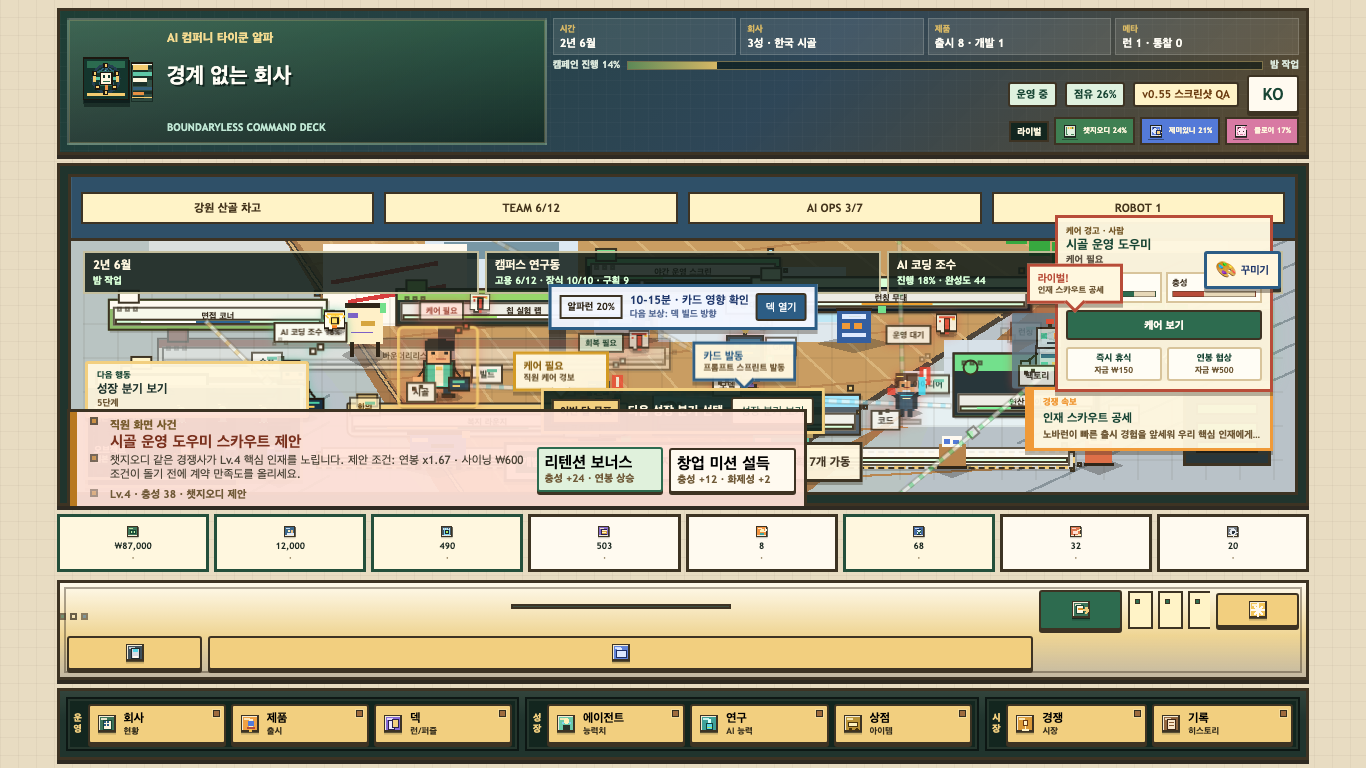
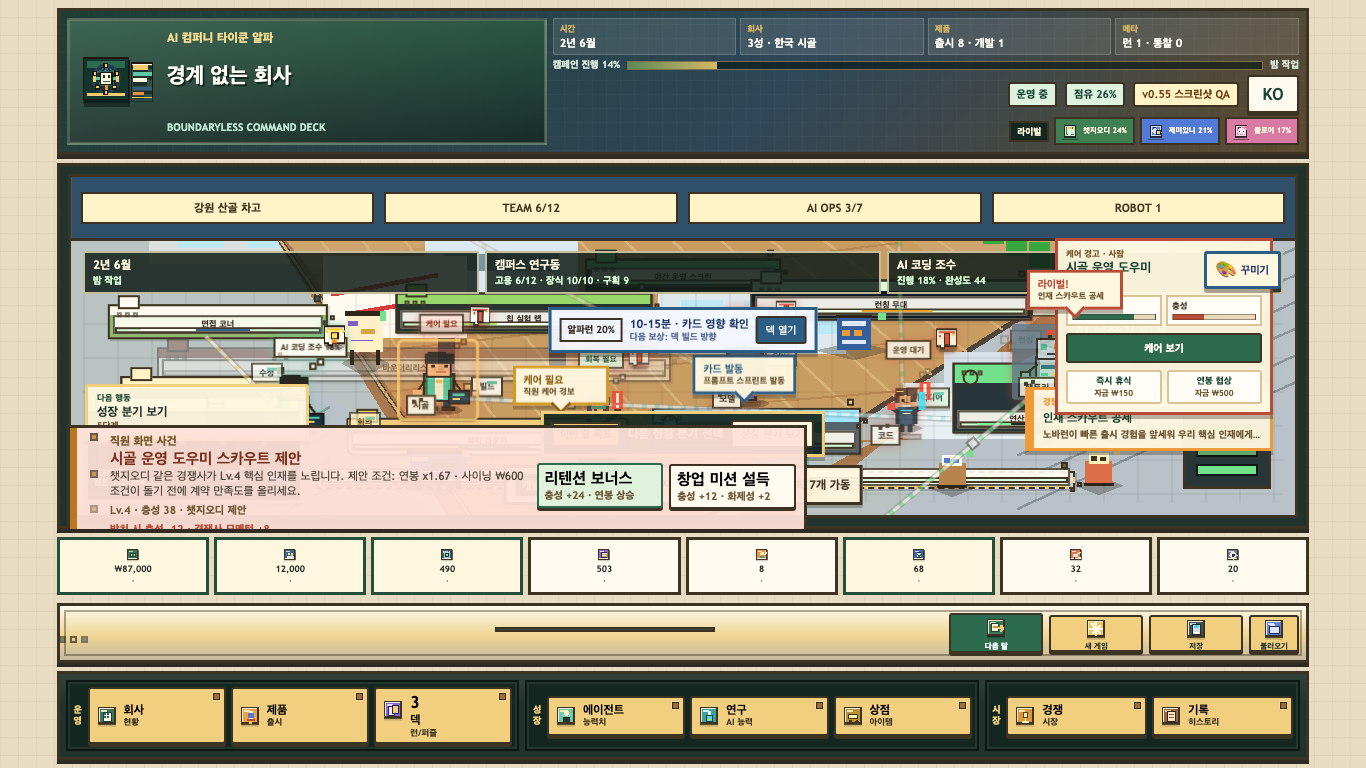
Take the strategy hand out of the command row and label the controls
Constraint: Players could not tell what the command-console buttons were because the strategy-card hand crowded the row, and the save/load/new-game labels were hidden by a v0.93 secondary-action rule.

Rejected: Cramming labels in beside the hand | the hand is a read-only preview, so it moves to the deck popup with a 손패 count badge on the deck launcher, freeing the row to label all four controls.

Confidence: high

Scope-risk: narrow

Directive: The command row shows 다음 달 / 새 게임 / 저장 / 불러오기 labeled on desktop; the hand lives in the deck popup with a hand-count badge. Codex hung at startup, so Claude implemented and verified this directly.

Tested: live measure (all 4 command labels visible, command-row overflow 0, deck launcher 손패 badge "3"); check-v096-first-screen (desktop overflow 0, officeVisibleFraction 0.376 -> 0.403); check-v1_0-menu-popup (8/8, 0 errors); npm run harness:gate < /dev/null (53 files / 652 tests, build clean). Additive: simulation.ts/types.ts/data diff empty.

Not-tested: Physical-device legibility of the small command labels.

diff --git a/src/App.css b/src/App.css
@@ -179,6 +179,13 @@ button:disabled {
   white-space: nowrap;
 }
 
+/* 데스크톱(>1100px)에서는 손패가 빠져 자리가 나므로 보조 버튼(새 게임·저장·불러오기) 라벨도 켠다. */
+@media (min-width: 1101px) {
+  .app-shell.v034-game-shell.first-screen-composition .command-row .secondary-action span {
+    display: block;
+  }
+}
+
 .app-shell.v034-game-shell.first-screen-composition .event-stack.office-sightline-event-rail .event-choices strong,
 .app-shell.v034-game-shell.first-screen-composition .event-stack.office-sightline-event-rail .event-choice-summary {
   white-space: normal;

diff --git a/src/ui/layout-contract.test.ts b/src/ui/layout-contract.test.ts
@@ -1836,6 +1836,13 @@ describe("v0.13.3 compact game shell layout", () => {
     expect(gameChrome).not.toContain("<OperationCommandPanel");
   });
 
+  it("v1.0 block5 takes the strategy hand out of the command row and labels the controls", () => {
+    const commandRowBody = gameChrome.slice(gameChrome.indexOf("function CommandRow"), gameChrome.indexOf("function StrategyHand"));
+    expect(commandRowBody).not.toContain("<StrategyHand");
+    expect(gameChrome).toContain("hand-count-badge");
+    expect(appCss).toMatch(/@media\s*\(min-width:\s*1101px\)[\s\S]*?\.command-row\s+\.secondary-action span\s*{[^}]*display:\s*block/s);
+  });
+
   it("v0.58 #4 differentiates rival-counter strategy cards with a derive-only pressure badge in deck and reward UI", () => {
     expect(menuPanels).toContain("isCounterCard");
     expect(menuPanels).toContain("getRivalCounterSignal");

diff --git a/src/App.tsx b/src/App.tsx
@@ -163,7 +163,11 @@ function App() {
         />
       </div>
       <CommandRow gameState={gameState} setGameState={setGameState} onSave={handleSave} onLoad={handleLoad} />
-      <MenuLauncherBar activeMenu={isMenuPopupOpen ? activeMenu : null} onOpen={openMenu} />
+      <MenuLauncherBar
+        activeMenu={isMenuPopupOpen ? activeMenu : null}
+        handCount={gameState.roguelite.deck.hand.length}
+        onOpen={openMenu}
+      />
       {isMenuPopupOpen && (
         <MenuPopupModal
           activeMenu={activeMenu}

diff --git a/src/components/GameChrome.tsx b/src/components/GameChrome.tsx
@@ -2959,7 +2959,6 @@ export function CommandRow({
         <CommercialUiIcon className="command-icon" iconId="next" />
         <span>다음 달</span>
       </button>
-      <StrategyHand gameState={gameState} />
       <button aria-label="새 게임" className="secondary-action command-action" onClick={() => setGameState(createInitialState())}>
         <CommercialUiIcon className="command-icon" iconId="newGame" />
         <span>새 게임</span>
@@ -3074,9 +3073,11 @@ export function MainMenu({
 export function MenuLauncherBar({
   activeMenu,
   onOpen,
+  handCount = 0,
 }: {
   activeMenu: MenuId | null;
   onOpen: Dispatch<SetStateAction<MenuId>>;
+  handCount?: number;
 }) {
   return (
     <nav className="menu-launcher-bar" aria-label="하단 경영 메뉴 런처">
@@ -3098,6 +3099,9 @@ export function MenuLauncherBar({
                   type="button"
                 >
                   <CommercialUiIcon className="menu-icon" iconId={menuIconIds[menu.id]} />
+                  {menu.id === "deck" && handCount > 0 ? (
+                    <b className="hand-count-badge" aria-label={`손패 ${handCount}장`}>{handCount}</b>
+                  ) : null}
                   <strong>{menu.label}</strong>
                   <span>{menu.hint}</span>
                 </button>

diff --git a/reports/codex-handoff/v1_0_block5_command_clarity.md b/reports/codex-handoff/v1_0_block5_command_clarity.md
@@ -1,0 +1,62 @@
+# Codex CLI 인계 — v1.0 #5 커맨드 행 명료화 (전략 손패 이동 + 버튼 전부 라벨)
+
+작성일: 2026-06-03
+작성자: Claude Code (편집장)
+대상: Codex CLI — reasoning effort **medium**
+작업 디렉토리: `/Users/taewookkim/dev/ai-company-tycoon`
+선행: `main` @ `8c77563`. 게이트 53 files / 651 tests.
+
+> **Codex 는 dev server / 브라우저 스모크 금지.** CSS/TSX + 단위 테스트 + build 까지만. 브라우저 검증은 Claude.
+
+---
+
+## 한 줄 요약
+
+사용자가 하단 커맨드 콘솔의 아이콘 버튼이 뭔지 모르겠다고 함. 원인 — **전략 카드 손패(`StrategyHand`)가 커맨드 행을 꽉 채워** 새 게임/저장/불러오기 버튼이 찌그러져 라벨이 안 들어감. `StrategyHand` 는 **읽기 전용 표시**(손패 N·덱 N·버림 N + 카드 5장 미리보기, onClick 없음 — 카드 플레이는 덱 메뉴)라 이동해도 게임 로직 무변경. 손패를 커맨드 행에서 빼고 커맨드 버튼 4개를 전부 라벨한다. visual/additive.
+
+## 작업 (TDD)
+
+### Task 1 — RED: 계약
+`src/ui/layout-contract.test.ts` — 추가.
+```ts
+  it("v1.0 block5 takes the strategy hand out of the command row so the controls are labeled", () => {
+    // CommandRow 가 더 이상 StrategyHand 를 렌더하지 않는다.
+    const commandRowSection = gameChrome.slice(gameChrome.indexOf("function CommandRow"), gameChrome.indexOf("function StrategyHand"));
+    expect(commandRowSection).not.toContain("<StrategyHand");
+    // 손패 인지: 덱 런처 버튼 또는 덱 팝업에 손패 수 표시.
+    expect(gameChrome.includes("hand-count-badge") || menuPanels.includes("StrategyHand") || menuPanels.includes("hand-preview")).toBe(true);
+  });
+```
+- [ ] `npm test -- src/ui/layout-contract.test.ts` → **FAIL**.
+
+### Task 2 — GREEN: 손패 이동
+- [ ] **2.1** `GameChrome.tsx` `CommandRow`(2931~)에서 `<StrategyHand gameState={gameState} />`(~2962) **제거**.
+- [ ] **2.2** 손패 인지 유지 — 둘 중 하나(또는 둘 다):
+  - `MenuPanels.tsx` `DeckPanel`(~874)이 현재 손패를 안 보여주면 `StrategyHand`(또는 동등한 손패 미리보기)를 DeckPanel 상단에 렌더. (이미 보여주면 생략.)
+  - `MenuLauncherBar` 의 **덱(deck) 버튼에 "손패 N" 배지**(`hand-count-badge`) — `gameState.roguelite.deck.hand.length`. 한눈에 손패 수 인지.
+- [ ] **2.3** `StrategyHand` 컴포넌트가 DeckPanel 로 가면 export/import 정리. 안 쓰면 제거.
+
+### Task 3 — GREEN: 커맨드 행 4버튼 라벨
+- [ ] **3.1** 손패가 빠졌으니 커맨드 행 = `다음 달`(primary) + `새 게임` + `저장` + `불러오기`. App.css `.command-row` 레이아웃을 **4버튼이 아이콘+라벨로 다 보이게** 조정. 내가 추가한 stacked/min-width 임시 CSS(8c77563)는 정리하고, 데스크톱에서 4버튼 라벨이 자연스럽게 들어가는 그리드로(예 primary 넓게 + 3 secondary 균등). 모바일(≤1100)은 기존처럼 아이콘 위주 콤팩트 허용.
+- [ ] **3.2** `.command-action span` 데스크톱 표시 유지(라벨), 오버플로 안 나게.
+
+### Task 4 — 검증
+- [ ] `npm test -- --maxWorkers=1` 통과(StrategyHand/command 참조 테스트 갱신). `npm run build`(tsc) 통과.
+- [ ] additive — `git --no-pager diff --stat -- src/game/simulation.ts src/game/types.ts data/` 비어 있음(StrategyHand 는 표시 전용, 로직 무변경).
+
+## 완료 기준 (Codex)
+1. 계약 RED→GREEN.
+2. 손패가 커맨드 행에서 빠지고 덱(팝업/배지)로 인지 유지.
+3. 커맨드 4버튼(다음 달/새 게임/저장/불러오기) 전부 라벨, 오버플로 없음.
+4. `npm test` + build 통과. additive diff 비어 있음.
+5. `git commit` 안 함. 보고: 변경 파일, RED→GREEN, 테스트+build, additive diff, 손패 이동처(덱 팝업/배지).
+
+## 편집장 검증 (Claude, 실서버)
+- 커맨드 버튼 4개 라벨 가시 + `.command-row` overflow 0 측정.
+- 덱 팝업/런처 배지에 손패 표시 확인. `check-v1_0-menu-popup` 회귀(8 메뉴).
+- 첫화면 스모크(officeFrac ≥0.37 유지, overflow 0) + 스크린샷 육안.
+- 게이트 + additive. 통과 시 Lore 커밋(두 Co-Authored-By) + push.
+
+## 주의
+- `StrategyHand` 는 onClick 없는 표시 컴포넌트 — 이동은 시각 변경만, 게임 로직/세이브 불변.
+- 손패를 완전히 숨기지 말 것(플레이어가 카드 수는 알아야 함) — 덱 팝업 또는 배지로 인지.

diff --git a/reports/qa/v1_0_block5_command_clarity_run.md b/reports/qa/v1_0_block5_command_clarity_run.md
@@ -1,0 +1,22 @@
+# v1.0 #5 Command-row Clarity QA
+
+Date: 2026-06-03
+
+## Scope
+Take the read-only StrategyHand out of the CommandRow so the four command controls (다음 달 / 새 게임 / 저장 / 불러오기) can show labels; preserve hand awareness via a 손패 count badge on the deck launcher (the deck popup already renders the hand). visual/additive — StrategyHand is display-only, no game logic change.
+
+## Implementation (Claude — Codex hung at startup for 21 min and was cancelled)
+- GameChrome CommandRow: removed `<StrategyHand gameState={gameState} />`.
+- MenuLauncherBar: new optional `handCount` prop + a `hand-count-badge` on the deck button (gameState.roguelite.deck.hand.length).
+- App.tsx: passes `handCount` to MenuLauncherBar.
+- App.css: a `@media (min-width: 1101px)` rule shows `.command-row .secondary-action span` on desktop (the v0.93 base rule hid them); with the hand gone there is room for all four labels.
+
+## Verification (Claude, live :5222)
+- Command labels visible desktop: ["다음 달", "새 게임", "저장", "불러오기"]; command-row overflow 0; deck launcher 손패 badge renders "3".
+- check-v096-first-screen: desktop overflow 0, officeVisibleFraction 0.376 -> 0.403 (the freed hand width grew the office past 0.40).
+- check-v1_0-menu-popup: 8/8, 0 errors.
+- Gate: 53 files / 652 tests, build 752ms. Additive diff empty.
+
+## Notes
+- StrategyHand function kept (still asserted by an existing contract) but unused in CommandRow; the deck popup (DeckPanel handCards) shows the hand.
+- Secondary command labels are desktop-only (>1100px); mobile keeps the compact icon-first console.